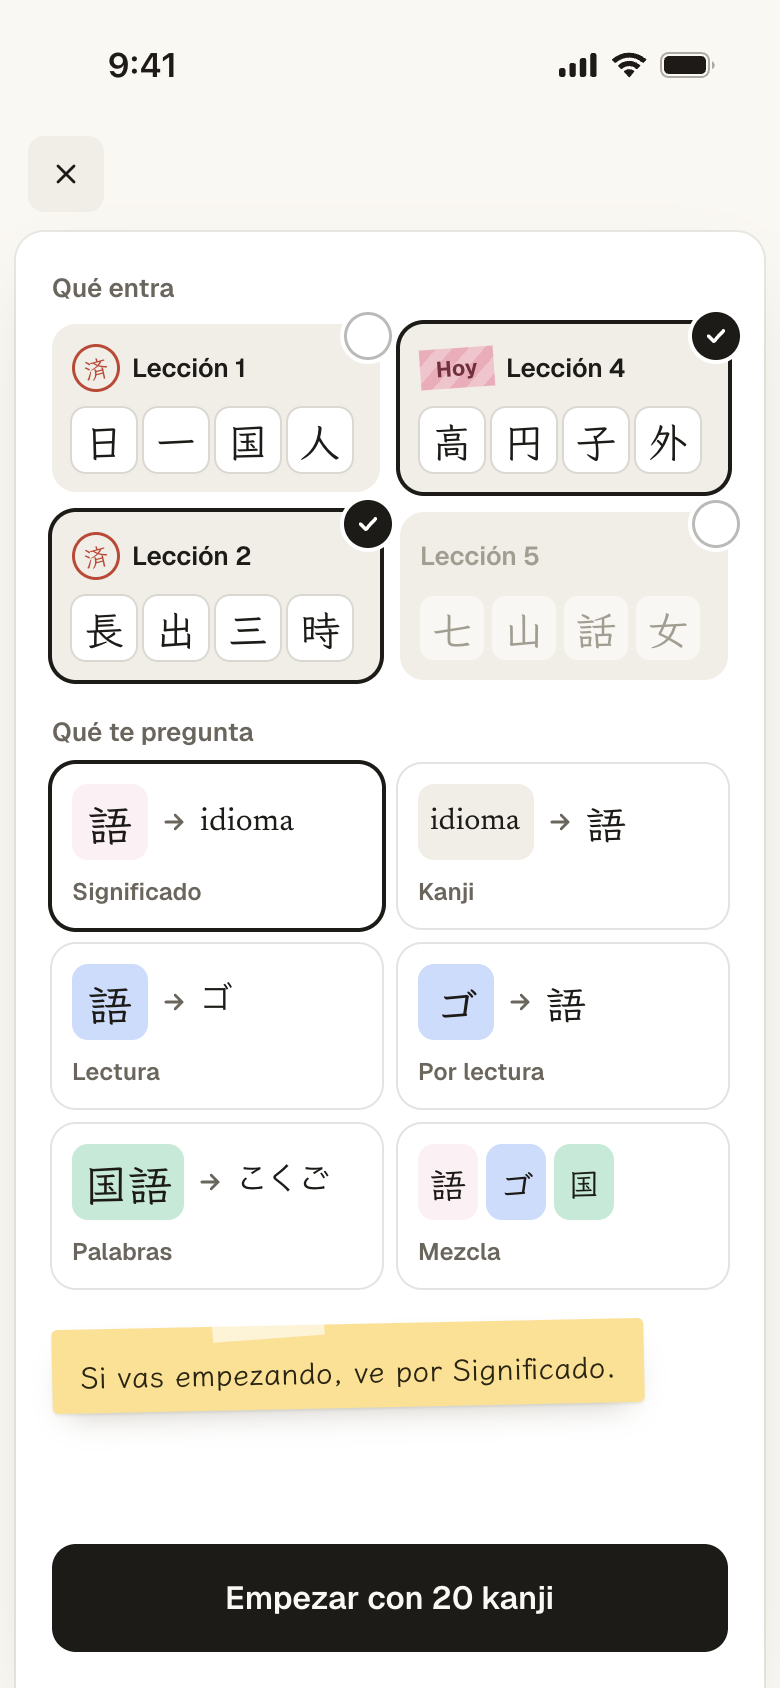
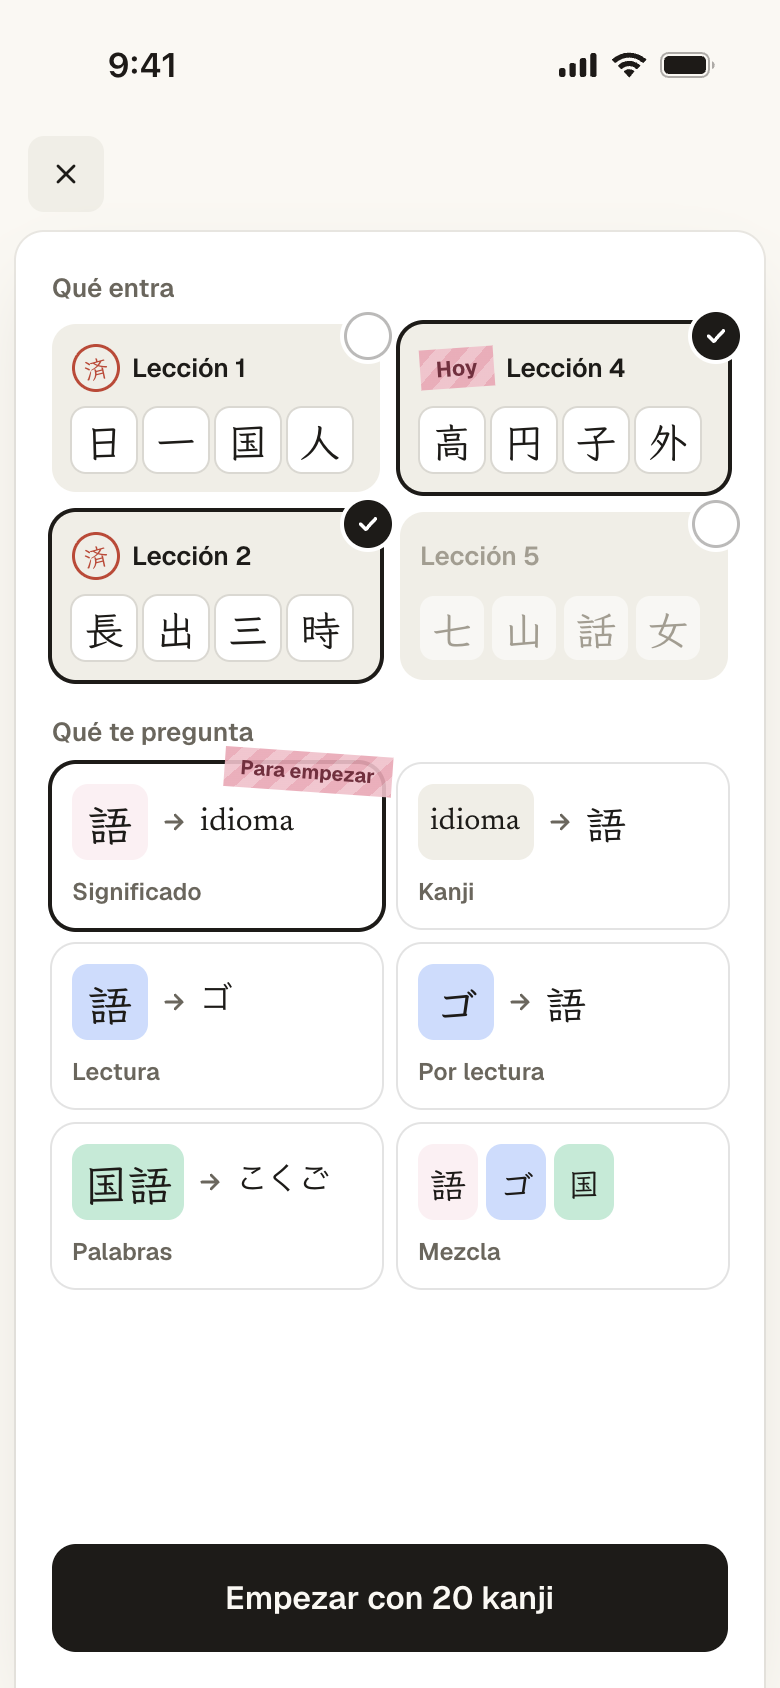
NOE-559 Comentarios de Noe: furigana fuera de nivel, sin post-it de consejo y opciones de paleta

Changed region(s): [[0.0615, 0.7701, 0.8308, 0.8626], [0.2769, 0.4313, 0.5231, 0.4929]]

diff --git a/docs/DESIGN.md b/docs/DESIGN.md
@@ -14,7 +14,8 @@ los de repaso, examen, estados, cuenta y créditos. Exportes en `docs/rediseno/d
 3. **Sin plantilla.** Sin barra de pestañas, sin encabezado con título repetido, sin pilas de tarjetas.
 4. **Nada repetido en una pantalla, poco texto, sin numeración de adorno, sin punto medio como separador.**
 5. **Pensado para 2.211 kanji.** Lo terminado se pliega, lo no empezado se resume en una fila.
-6. **Ninguna función actual se pierde** (constitución XIV). Ver `docs/rediseno/COBERTURA.md`.
+6. **Furigana en todo kanji fuera de tu nivel.** Cualquier kanji que no sea de tu nivel o de uno anterior lleva su lectura en hiragana encima, en frases, palabras y resultados.
+7. **Ninguna función actual se pierde** (constitución XIV). Ver `docs/rediseno/COBERTURA.md`.
 
 ## Colores
 
@@ -64,7 +65,7 @@ las secciones se separan con espacio y superficies.
 | Pieza | Función |
 |---|---|
 | Stickers sakura | progreso del día y días de la semana, sin rachas que castigan |
-| Nota propia (sticky) | mnemotecnia del estudiante, una por kanji, se puede mover |
+| Nota propia (sticky) | mnemotecnia del estudiante, una por kanji, se puede mover. Solo para lo que escribe el estudiante, nunca para consejos de la app |
 | Marcatextos | el kanji estudiado dentro de una frase |
 | 花丸 y círculo rojo | acierto y calificación del examen |
 | Sello 済 | lecciones terminadas en el índice |
